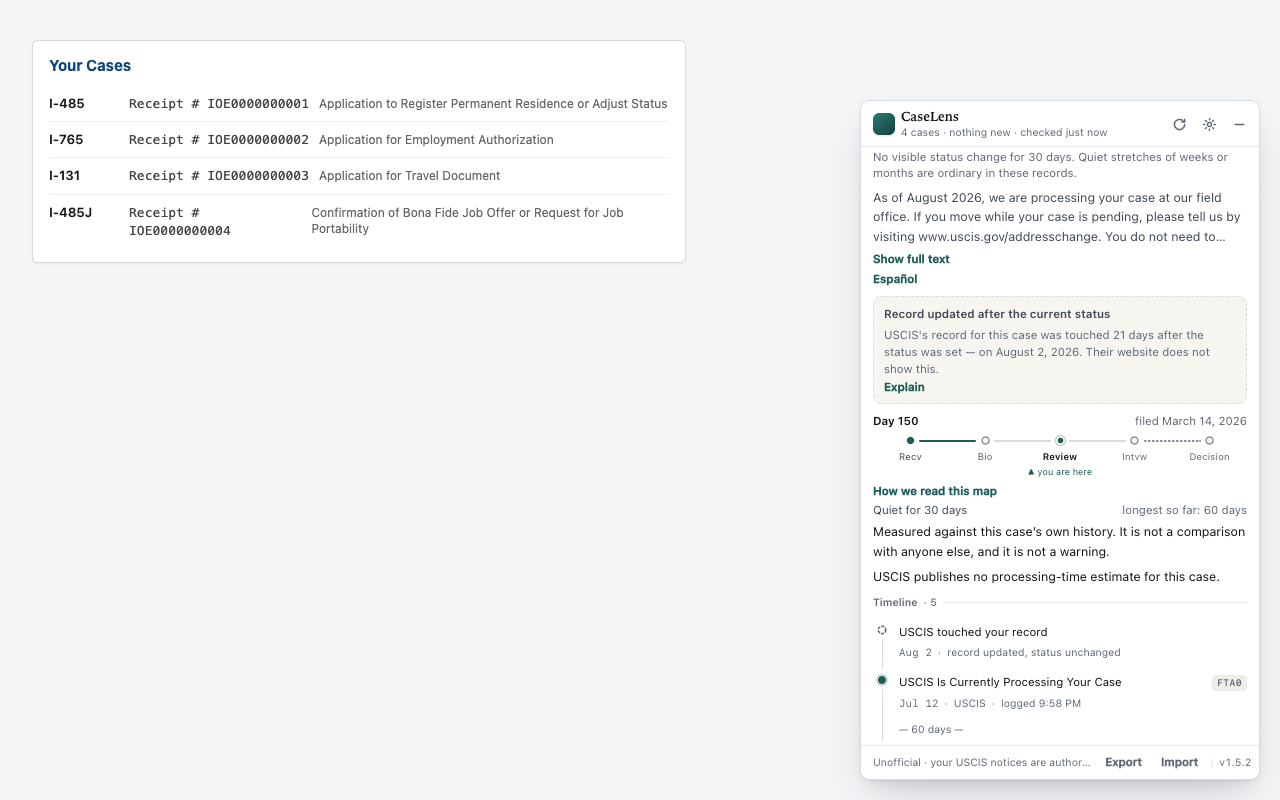
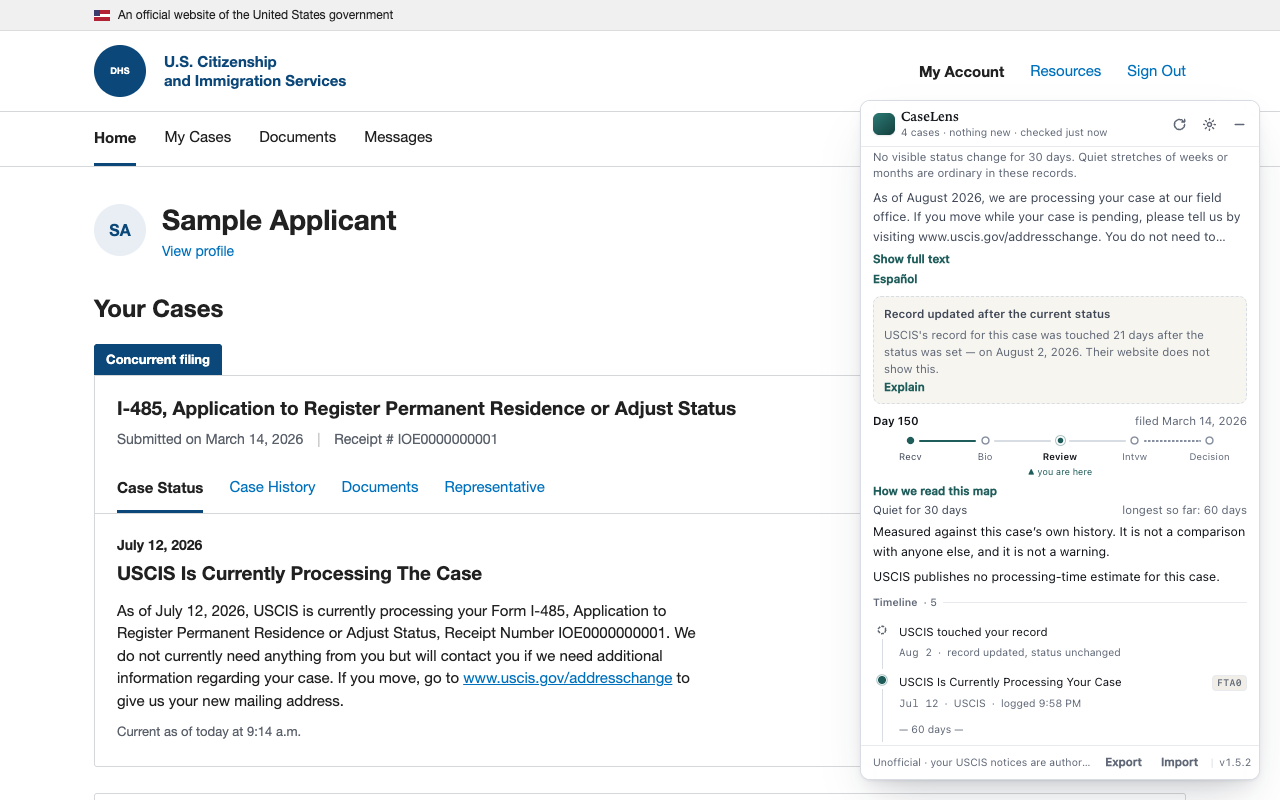
Add an account-page replica as the store-screenshot backdrop
Screenshots now show the panel over a page that looks like my.uscis.gov,
including the same case appearing in both — which is the clearest way to show
it is reading the real record rather than inventing one.

Deliberately a replica, not a saved copy of a signed-in account. Capturing a
real page would pull a person's receipt numbers, name, representative and
tracking numbers through the file on the way to a public repo, and the PII gate
only catches receipt numbers. Every value here is invented and matches
test/fixtures.js.

diff --git a/test/backdrop.html b/test/backdrop.html
@@ -1,0 +1,162 @@
+<!DOCTYPE html>
+<html lang="en">
+<head>
+<meta charset="utf-8">
+<title>USCIS Account — Home Page</title>
+<!--
+  A replica of the my.uscis.gov account page, used as the backdrop for store
+  screenshots so the panel is shown where it actually appears.
+
+  Deliberately a replica rather than a saved copy of a real page. Capturing a
+  signed-in account would pull a real person's receipt numbers, name, attorney
+  and tracking numbers through the file on their way to a public repository,
+  and the PII gate only catches receipt numbers. Everything here is invented:
+  the same placeholder cases as test/fixtures.js.
+
+  Layout and wording follow the real page's structure — the government banner,
+  the account header, "Your Cases", the concurrent-filing badge, the per-case
+  tab row, and USCIS's own status phrasing.
+-->
+<style>
+  :root { --u-blue:#0b4778; --u-link:#0071bc; --u-border:#d6d7d9; --u-text:#212121; }
+  * { box-sizing: border-box; }
+  body { margin:0; background:#fff; color:var(--u-text);
+         font:16px/1.5 "Source Sans Pro","Helvetica Neue",Helvetica,Arial,sans-serif; }
+
+  .gov-banner { background:#f0f0f0; font-size:12px; padding:6px 0; border-bottom:1px solid #dcdcdc; }
+  .gov-banner .inner { max-width:1140px; margin:0 auto; padding:0 24px; display:flex; gap:8px; align-items:center; }
+  .flag { width:16px; height:11px; background:linear-gradient(#b22234 0 33%, #fff 33% 66%, #b22234 66%); position:relative; }
+  .flag::before { content:""; position:absolute; inset:0 60% 45% 0; background:#3c3b6e; }
+
+  header.site { border-bottom:1px solid var(--u-border); }
+  header.site .inner { max-width:1140px; margin:0 auto; padding:14px 24px; display:flex; align-items:center; gap:18px; }
+  .seal { width:52px; height:52px; border-radius:50%; background:var(--u-blue); flex:none;
+          display:flex; align-items:center; justify-content:center; color:#fff; font-size:9px;
+          text-align:center; line-height:1.1; font-weight:700; letter-spacing:.02em; }
+  .wordmark { font-size:15px; font-weight:700; color:var(--u-blue); line-height:1.25; }
+  .acct { margin-left:auto; display:flex; align-items:center; gap:26px; font-size:15px; }
+  .acct a { color:var(--u-link); text-decoration:none; }
+  .acct .me { display:flex; align-items:center; gap:8px; font-weight:600; color:var(--u-text); }
+
+  nav.sub { border-bottom:1px solid var(--u-border); }
+  nav.sub .inner { max-width:1140px; margin:0 auto; padding:0 24px; display:flex; gap:28px; }
+  nav.sub a { padding:14px 0; font-size:15px; color:var(--u-text); text-decoration:none; border-bottom:3px solid transparent; }
+  nav.sub a.on { border-bottom-color:var(--u-blue); font-weight:600; }
+
+  main { max-width:1140px; margin:0 auto; padding:32px 24px 64px; }
+  .who { display:flex; align-items:center; gap:16px; margin-bottom:28px; }
+  .avatar { width:52px; height:52px; border-radius:50%; background:#e8eef4; color:var(--u-blue);
+            display:flex; align-items:center; justify-content:center; font-weight:700; }
+  .who h1 { margin:0; font-size:28px; font-weight:700; }
+  .who .view { font-size:14px; }
+  .who a { color:var(--u-link); text-decoration:none; }
+
+  h2.section { font-size:24px; margin:0 0 18px; }
+
+  .group-tag { display:inline-flex; align-items:center; gap:7px; background:var(--u-blue); color:#fff;
+               font-size:13px; font-weight:600; padding:6px 12px; border-radius:3px 3px 0 0; }
+  .case { border:1px solid var(--u-border); border-radius:0 3px 3px 3px; margin:0 0 26px; background:#fff; }
+  .case.standalone { border-radius:3px; }
+  .case .head { padding:18px 22px 0; }
+  .case .closed { display:inline-flex; gap:6px; align-items:center; font-size:14px; color:#5b616b; margin-bottom:6px; }
+  .case h3 { margin:0 0 6px; font-size:19px; font-weight:700; }
+  .case .meta { font-size:14px; color:#5b616b; margin-bottom:14px; }
+  .case .meta .sep { margin:0 10px; color:#c9c9c9; }
+  .tabs { display:flex; gap:26px; padding:0 22px; border-bottom:1px solid var(--u-border); }
+  .tabs span { padding:12px 0; font-size:15px; color:var(--u-link); border-bottom:3px solid transparent; }
+  .tabs span.on { color:var(--u-text); font-weight:600; border-bottom-color:var(--u-blue); }
+  .case .body { padding:20px 22px 24px; }
+  .case .date { font-size:14px; font-weight:600; margin-bottom:4px; }
+  .case .status { font-size:19px; font-weight:700; margin:0 0 12px; }
+  .case p { margin:0 0 10px; font-size:15px; max-width:70ch; }
+  .case a { color:var(--u-link); }
+  .case .asof { font-size:13px; color:#5b616b; }
+</style>
+</head>
+<body>
+
+<div class="gov-banner"><div class="inner">
+  <span class="flag"></span> An official website of the United States government
+</div></div>
+
+<header class="site"><div class="inner">
+  <div class="seal">DHS</div>
+  <div class="wordmark">U.S. Citizenship<br>and Immigration Services</div>
+  <div class="acct">
+    <span class="me">My Account</span>
+    <a href="#">Resources</a>
+    <a href="#">Sign Out</a>
+  </div>
+</div></header>
+
+<nav class="sub"><div class="inner">
+  <a href="#" class="on">Home</a>
+  <a href="#">My Cases</a>
+  <a href="#">Documents</a>
+  <a href="#">Messages</a>
+</div></nav>
+
+<main>
+  <div class="who">
+    <div class="avatar">SA</div>
+    <div>
+      <h1>Sample Applicant</h1>
+      <div class="view"><a href="#">View profile</a></div>
+    </div>
+  </div>
+
+  <h2 class="section">Your Cases</h2>
+
+  <div class="group-tag">Concurrent filing</div>
+  <div class="case">
+    <div class="head">
+      <h3>I-485, Application to Register Permanent Residence or Adjust Status</h3>
+      <div class="meta">Submitted on March 14, 2026 <span class="sep">|</span> Receipt # IOE0000000001</div>
+    </div>
+    <div class="tabs"><span class="on">Case Status</span><span>Case History</span><span>Documents</span><span>Representative</span></div>
+    <div class="body">
+      <div class="date">July 12, 2026</div>
+      <p class="status">USCIS Is Currently Processing The Case</p>
+      <p>As of July 12, 2026, USCIS is currently processing your Form I-485, Application to Register
+         Permanent Residence or Adjust Status, Receipt Number IOE0000000001. We do not currently need
+         anything from you but will contact you if we need additional information regarding your case.
+         If you move, go to <a href="#">www.uscis.gov/addresschange</a> to give us your new mailing address.</p>
+      <div class="asof">Current as of today at 9:14 a.m.</div>
+    </div>
+  </div>
+
+  <div class="case standalone">
+    <div class="head">
+      <div class="closed">Case closed</div>
+      <h3>I-765, Application for Employment Authorization</h3>
+      <div class="meta">Submitted on March 14, 2026 <span class="sep">|</span> Receipt # IOE0000000002</div>
+    </div>
+    <div class="tabs"><span class="on">Case Status</span><span>Case History</span><span>Documents</span><span>Representative</span></div>
+    <div class="body">
+      <div class="date">July 18, 2026</div>
+      <p class="status">Card Was Delivered To Me By The Post Office</p>
+      <p>On July 18, 2026, the Post Office delivered your new card for Receipt Number IOE0000000002,
+         to the address that you gave us. If you move, go to <a href="#">www.uscis.gov/addresschange</a>
+         to give us your new mailing address.</p>
+      <div class="asof">Current as of today at 9:14 a.m.</div>
+    </div>
+  </div>
+
+  <div class="case standalone">
+    <div class="head">
+      <h3>I-131, Application for Travel Documents, Parole Documents, and Arrival/Departure Records</h3>
+      <div class="meta">Submitted on March 14, 2026 <span class="sep">|</span> Receipt # IOE0000000003</div>
+    </div>
+    <div class="tabs"><span class="on">Case Status</span><span>Case History</span><span>Documents</span><span>Representative</span></div>
+    <div class="body">
+      <div class="date">March 16, 2026</div>
+      <p class="status">Case Was Received And A Receipt Notice Was Sent</p>
+      <p>On March 16, 2026, we received your Form I-131 and sent you a receipt notice. The notice
+         describes how we will process your case. Please follow the instructions in the notice.</p>
+      <div class="asof">Current as of today at 9:14 a.m.</div>
+    </div>
+  </div>
+</main>
+
+</body>
+</html>

diff --git a/scripts/store-screenshots.js b/scripts/store-screenshots.js
@@ -17,6 +17,9 @@ var CDP = require(path.join(__dirname, 'cdp-lite.js'));
 var ROOT = path.join(__dirname, '..');
 var OUT = path.join(ROOT, 'docs', 'store');
 var BASE = 'http://localhost:8899/test/harness.html';
+// The backdrop is a replica of the account page, loaded as an iframe behind
+// the panel so screenshots show it where it actually appears.
+var BACKDROP = 'http://localhost:8899/test/backdrop.html';
 var PORT = 9530;
 var W = 1280, H = 800;
 
@@ -96,21 +99,18 @@ async function main() {
     }
     // Replace the harness strip with a neutral backdrop so the shot reads as
     // the product, not as a test page.
-    // Hide the test scaffolding but KEEP the mock account page behind the
-    // panel. A panel floating on an empty canvas doesn't show what the product
-    // is; sitting over a case list does.
+    // Replace the harness scaffolding with the account-page replica, so the
+    // panel is shown over the page it actually overlays.
     await client.eval(
       "(function(){" +
-      "var strip=document.getElementById('harness-strip'); if(strip) strip.style.display='none';" +
-      "var log=document.getElementById('harness-log'); if(log) log.style.display='none';" +
-      "var lab=document.getElementById('harness-log-label'); if(lab) lab.style.display='none';" +
-      "var body=document.getElementById('harness-body'); if(body) body.style.padding='40px 32px';" +
-      "var acct=document.getElementById('harness-mock-account');" +
-      "if(acct){acct.style.maxWidth='620px';acct.style.boxShadow='0 1px 3px rgba(0,0,0,.06)';}" +
-      "document.documentElement.style.background=" + (shot.dark ? "'#1b1b20'" : "'#f4f5f7'") + ";" +
-      "document.body.style.background=" + (shot.dark ? "'#1b1b20'" : "'#f4f5f7'") + ";" +
-      (shot.dark ? "if(acct){acct.style.background='#26262d';acct.style.borderColor='#33333c';acct.style.color='#d6d6db';}" : "") +
+      "Array.prototype.forEach.call(document.body.children,function(n){" +
+      "  var c=String(n.className||''); if(c.indexOf('uscistr')===-1) n.style.display='none';});" +
+      "var f=document.createElement('iframe');" +
+      "f.src='" + BACKDROP + "';" +
+      "f.style.cssText='position:fixed;inset:0;width:100%;height:100%;border:0;z-index:0';" +
+      "document.body.insertBefore(f, document.body.firstChild);" +
       "})()");
+    await sleep(2500);
     if (shot.scroll) {
       await client.eval("(function(){var b=document.querySelector('.uscistr-body'); if(b) b.scrollTop=" + shot.scroll + ";})()");
       await sleep(500);
